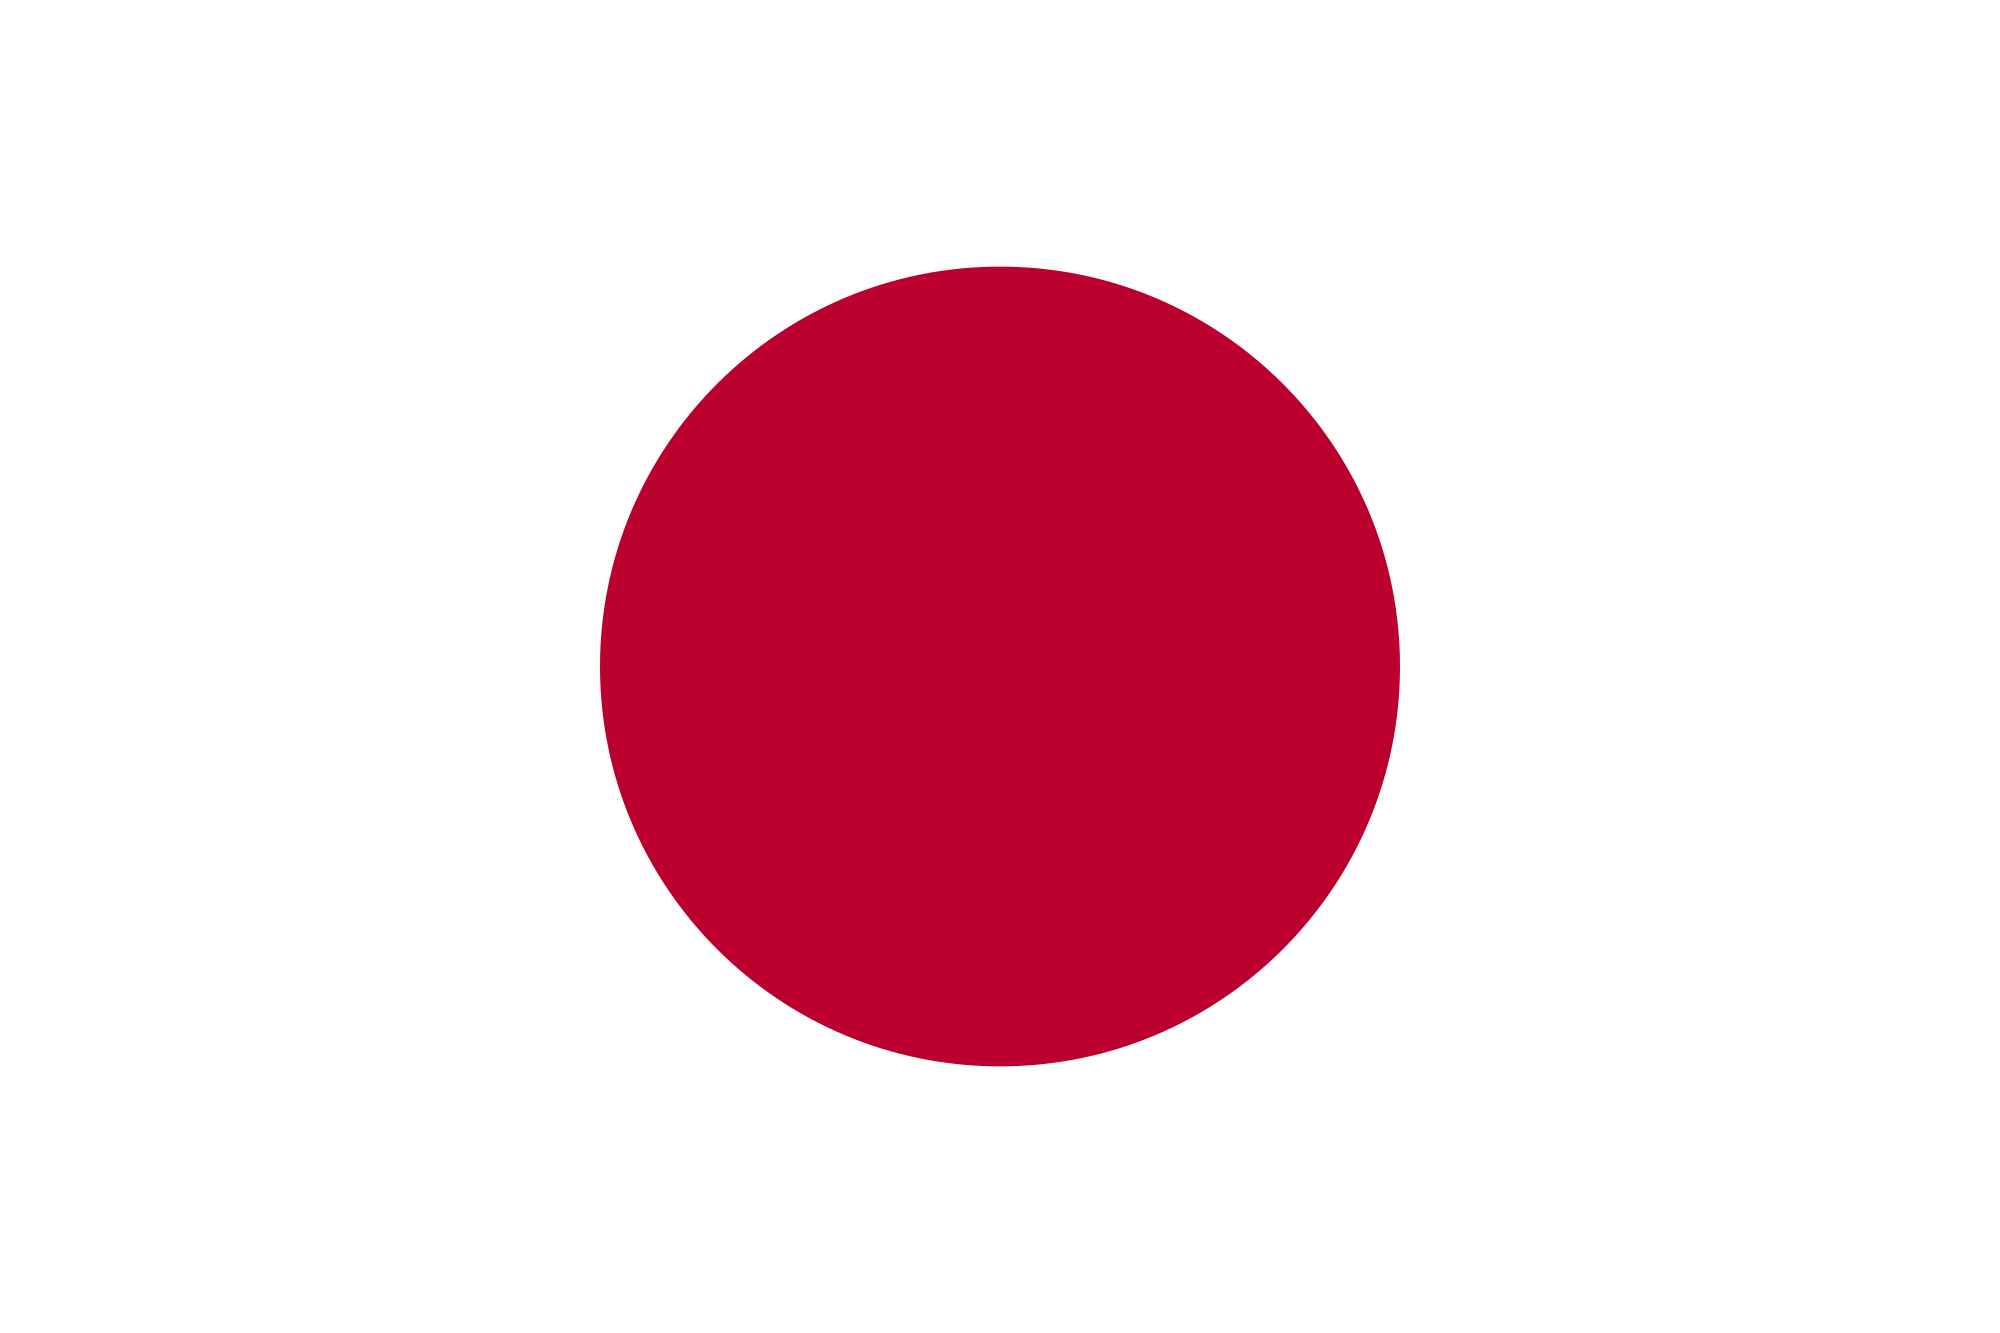
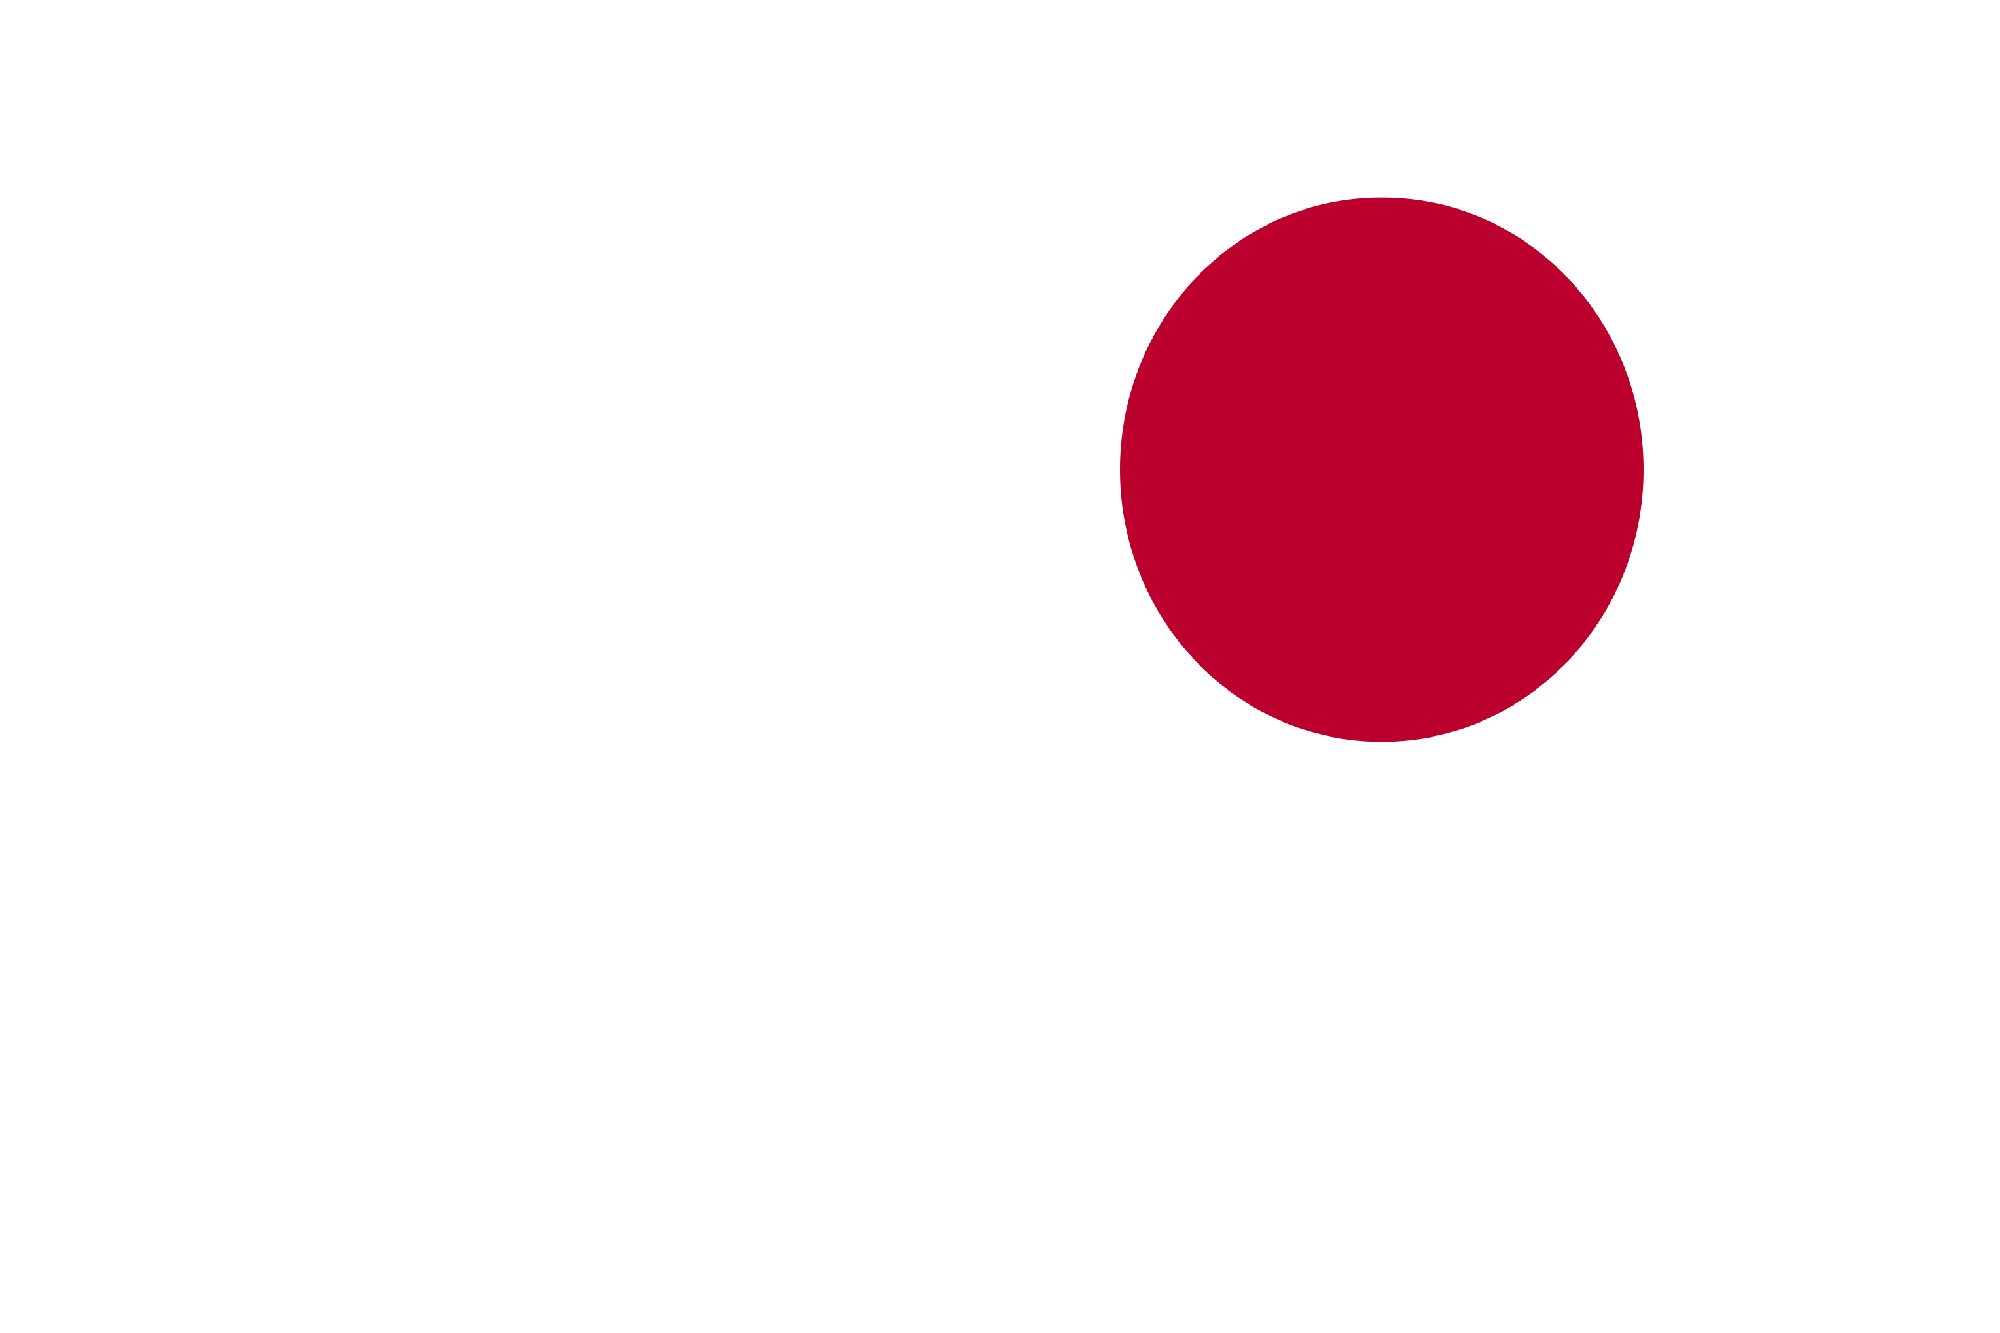
a

Changed region(s): [[0.279, 0.123, 0.837, 0.7997]]

diff --git a/test.css b/test.css
@@ -11,6 +11,8 @@ header p{
     vertical-align:middle;
     padding-right:20px;
     color:#fff;
+    font-family:sans-serif;
+    font-weight:800;
     font-size:24px;
     position:relative;
     left:20px;
@@ -29,7 +31,6 @@ header p{
 .naka{
     background-color:rgb(0, 0, 0);
     width:100%;
-    height:3000px;
 }
 footer{
     background-color:rgb(10,10,10);
@@ -96,12 +97,12 @@ footer p{
     color:rgb(0, 0, 0);
     font-size:10vw;
     font-weight:900;
+    background-position-x:10%;
+    background-position-y:30%;
     padding-top:5%;
     padding-left:20%;
     background: url('./jpn.png');
-    background-size:50%;
-    background-position-x:230px;
-    background-position-y:10px;
+    background-size:100%;
     color: transparent;
     -webkit-text-fill-color: transparent;
     -webkit-background-clip: text;/*テキストでマスク*/
@@ -137,6 +138,7 @@ footer p{
 }
 .sch{
     background-color:black;
+    padding-top:30%;
 }
 .twit{
     position:relative;
@@ -168,4 +170,64 @@ footer p{
     position:relative;
     top:-30px;
     padding-left:50%;
+}
+.can{
+    position:relative;
+    top:150px;
+    background:black;
+}
+
+.ican{
+    font-family:sans-serif;
+    color:rgb(231, 44, 44);
+    padding-left:10%;
+    font-size:8vw;
+    font-weight:800;
+    color: transparent;
+    -webkit-text-fill-color: transparent;
+    background: url('./dmitri-popov-303064-unsplash.jpg');
+    background-size:30%;
+    -webkit-background-clip: text;/*テキストでマスク*/
+    background-clip: text;
+}
+.c{
+    font-family:sans-serif;
+    font-size:6vw;
+    padding-left:7.8%;
+    font-weight:900;
+}
+.unity{
+    color:rgb(148, 148, 148);
+}
+.C{
+    color:rgb(238, 39, 39);
+}
+.Cpp{
+    color:rgb(116, 216, 50);
+}
+.Java{
+    color:rgb(228, 123, 37);
+}
+.Python{
+    color:rgb(98, 63, 226);
+}
+.html{
+    font-family:sans-serif;
+    color:rgb(235, 111, 39);
+    font-size:6vw;
+    padding-left:15%;
+    font-weight:900;
+}
+.htm{
+    color:rgb(180, 37, 236);
+}
+.CSS{
+    color:rgb(66, 219, 230);
+}
+.js{
+    font-family:sans-serif;
+    color:rgb(225, 228, 76);
+    font-size:6vw;
+    padding-left:15%;
+    font-weight:900;
 }

diff --git a/index.html b/index.html
@@ -23,7 +23,6 @@
         <img src="jpmap.png" class="jpmap">
         <p class="live">I live in Tsuyama city</p>
         <p class="japan"><span class="of">of </span><span class="jpan">Japan</span></p>
-        <img src="楕円形 1.png" class="pos">
       </div>
       <div class="sch">
       <p class="me">I am a student of</p>
@@ -33,6 +32,12 @@
         <p class="have">I have</p>
         <p class="six">6,000</p>
         <p class="foll">followers</p>
+      </div>
+      <div class="can">
+        <p class="ican">I can use</p>
+        <p class="c"><span class="C">C</span> <span class="Cpp">C++</span> <span class="Python">Python</span> <span class="Java">Java</span></p>
+        <p class="html"><span class="unity">C#(Unity)</span> <span class="htm">HTML</span> <span class="CSS">CSS</span></p>
+        <p class="js">Javascript(jQuery)</p>>
       </div>
     </div>
     <footer>
